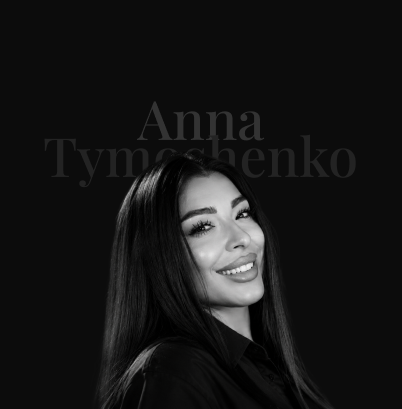
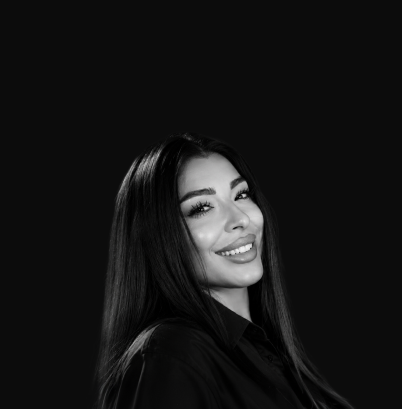
Add files via upload

diff --git a/index.html b/index.html
@@ -6,7 +6,7 @@
 <title>Anna Tymoshenko — Portfolio</title>
 <link href="https://fonts.googleapis.com/css2?family=Playfair+Display:ital,wght@0,400;0,700;1,400&family=Syne:wght@400;500;600;700;800&display=swap" rel="stylesheet"/>
 <style>
-:root{--black:#0C0C0C;--border:rgba(255,255,255,0.08);--gray:#666;--gray2:#999;--white:#fff;}
+:root{--black:#050505;--border:rgba(255,255,255,0.08);--gray:#666;--gray2:#999;--white:#fff;}
 *,*::before,*::after{box-sizing:border-box;margin:0;padding:0;}
 
 .site-wrap{
@@ -204,7 +204,7 @@ nav{
 .cv-modal{
   position:fixed;inset:0;
   z-index:1001;
-  background:#0C0C0C;
+  background:#050505;
   display:flex;flex-direction:column;
   opacity:0;pointer-events:none;
   transition:opacity .4s ease;
@@ -257,7 +257,7 @@ nav{
   width:100%;height:100vh;
   overflow:hidden;
   display:flex;align-items:center;justify-content:center;
-  background:#0C0C0C;
+  background:#050505;
 }
 
 /* Big background name — behind photo */
@@ -1361,7 +1361,7 @@ section.cs{padding-top:140px;padding-bottom:140px;width:100%;box-sizing:border-b
   cursor:pointer;
   margin-bottom:-24px;
   z-index:1;
-  background:#0C0C0C;
+  background:#050505;
   transform-origin:center bottom;
 }
 .proj-layer:nth-child(1){z-index:4;margin-bottom:-28px;}
@@ -1786,7 +1786,7 @@ footer{padding-top:80px;padding-bottom:56px;border-top:none;position:relative;z-
     margin-top:-100px !important;
     padding-top:100px !important;
     padding-bottom:14px !important;
-    background:linear-gradient(to bottom, transparent 0%, #0C0C0C 100px) !important;
+    background:linear-gradient(to bottom, transparent 0%, #050505 100px) !important;
     border-top:none !important;
     border-bottom:none !important;
     position:relative !important;
@@ -1922,7 +1922,7 @@ footer{padding-top:80px;padding-bottom:56px;border-top:none;position:relative;z-
     z-index:10 !important;
     margin-top:-50px !important;
     padding:12px 20px !important;
-    background:linear-gradient(to bottom, transparent 0%, #0C0C0C 50px) !important;
+    background:linear-gradient(to bottom, transparent 0%, #050505 50px) !important;
     border-top:none !important;
     border-bottom:none !important;
   }
@@ -1931,10 +1931,11 @@ footer{padding-top:80px;padding-bottom:56px;border-top:none;position:relative;z-
   .marquee-item{font-size:.58rem !important;}
 
   /* HERO */
-  .hero{display:block !important;position:relative !important;width:100% !important;height:100svh !important;overflow:hidden !important;background:#0C0C0C !important;}
+  .hero{display:block !important;position:relative !important;width:100% !important;height:100dvh !important;min-height:100dvh !important;overflow:hidden !important;background:#050505 !important;}
+  .hero picture{position:absolute !important;inset:0 !important;width:100% !important;height:100% !important;display:block !important;}
   .hero-right{position:absolute !important;inset:0 !important;width:100% !important;height:100% !important;z-index:0 !important;}
-  .hero-photo{position:absolute !important;inset:0 !important;width:100% !important;height:100% !important;object-fit:cover !important;object-position:center top !important;transform:none !important;}
-  .hero-photo-overlay{position:absolute !important;inset:0 !important;z-index:1 !important;background:linear-gradient(to top,#0C0C0C 0%,rgba(5,5,5,0.5) 25%,transparent 60%) !important;}
+  .hero-photo{position:absolute !important;inset:0 !important;width:100% !important;height:100% !important;object-fit:cover !important;object-position:center top !important;transform:none !important;animation:photoBrighten 3s ease forwards !important;}
+  .hero-photo-overlay{position:absolute !important;inset:0 !important;z-index:1 !important;background:linear-gradient(to top,#050505 0%,rgba(5,5,5,0.5) 25%,transparent 60%) !important;}
   .hero-bg-name{display:none !important;}
   .hero-name,.hero-tag,.hero-sub,.hero-btns{display:none !important;}
   .hero-left{position:absolute !important;inset:0 !important;z-index:2 !important;padding:0 !important;display:block !important;}
@@ -1964,8 +1965,8 @@ footer{padding-top:80px;padding-bottom:56px;border-top:none;position:relative;z-
   .float-cv{display:none !important;visibility:hidden !important;}
 
   /* SECTIONS */
-  section.cs{position:relative !important;z-index:10 !important;background:#0C0C0C !important;padding:52px 20px !important;}
-  footer{position:relative !important;z-index:10 !important;background:#0C0C0C !important;padding:32px 20px 24px !important;flex-direction:column !important;gap:16px !important;}
+  section.cs{position:relative !important;z-index:10 !important;background:#050505 !important;padding:52px 20px !important;}
+  footer{position:relative !important;z-index:10 !important;background:#050505 !important;padding:32px 20px 24px !important;flex-direction:column !important;gap:16px !important;}
   .sec-title{font-size:clamp(1.5rem,6vw,2rem) !important;}
   .sec-num{margin-bottom:10px !important;}
   .sec-head{margin-bottom:32px !important;}
@@ -2241,7 +2242,7 @@ footer{padding-top:80px;padding-bottom:56px;border-top:none;position:relative;z-
   .marquee-wrap{
     position:relative !important;
     z-index:10 !important;
-    background:#0C0C0C !important;
+    background:#050505 !important;
     margin-top:0 !important;
   }
 
@@ -2250,13 +2251,13 @@ footer{padding-top:80px;padding-bottom:56px;border-top:none;position:relative;z-
   section.cs{
     position:relative !important;
     z-index:10 !important;
-    background:#0C0C0C !important;
+    background:#050505 !important;
     padding:56px var(--container-padding) !important;
   }
   footer{
     position:relative !important;
     z-index:10 !important;
-    background:#0C0C0C !important;
+    background:#050505 !important;
     padding:36px 20px 28px !important;
     flex-direction:column !important;
     gap:24px !important;
@@ -2571,7 +2572,7 @@ footer{padding-top:80px;padding-bottom:56px;border-top:none;position:relative;z-
 .proto-modal{
   position:fixed;inset:0;
   z-index:1000;
-  background:#0C0C0C;
+  background:#050505;
   display:flex;flex-direction:column;
   opacity:0;pointer-events:none;
   transition:opacity .4s ease;
@@ -2867,16 +2868,15 @@ footer{padding-top:80px;padding-bottom:56px;border-top:none;position:relative;z-
   /* Photo — visible with simple brighten */
   .hero-photo{opacity:1 !important;}
 
-  /* Raise marquee on desktop — visual only, layout stays */
-  .marquee-wrap{position:relative !important;top:-380px !important;margin-bottom:-380px !important;z-index:10 !important;}
-
-  /* Marquee — overlap hero photo */
+  /* Marquee — slight overlap with hero on mobile */
   .marquee-wrap{
-    margin-top:-140px !important;
+    margin-top:-50px !important;
+    top:0 !important;
+    margin-bottom:0 !important;
     position:relative !important;
     z-index:10 !important;
     padding:12px 20px !important;
-    background:linear-gradient(to bottom, transparent 0%, #0C0C0C 60px) !important;
+    background:linear-gradient(to bottom, transparent 0%, #050505 60px) !important;
     border-top:none !important;
     border-bottom:none !important;
   }
@@ -2896,7 +2896,7 @@ footer{padding-top:80px;padding-bottom:56px;border-top:none;position:relative;z-
   .f-status{margin-top:4px !important;font-size:.6rem !important;}
 
   /* Mobile menu — solid black background */
-  .mobile-menu{background:#0C0C0C !important;backdrop-filter:none !important;-webkit-backdrop-filter:none !important;}
+  .mobile-menu{background:#050505 !important;backdrop-filter:none !important;-webkit-backdrop-filter:none !important;}
 
   /* Uniform section side padding on mobile */
   section.cs{padding-left:20px !important;padding-right:20px !important;}
